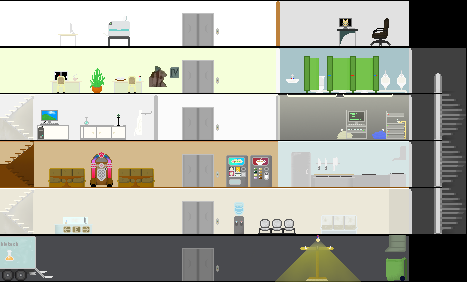
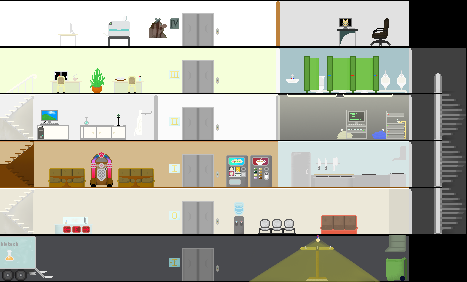
added characters

diff --git a/ParapluieBulgare/Game1.cs b/ParapluieBulgare/Game1.cs
@@ -25,18 +25,19 @@ namespace ParapluieBulgare
         {
             "white",
             "bulleDeTexte",
-            "MC_Walk_SpriteSheet",
-            "costard_fem_idle",
+            "background",
+            "ascenseur",
+
+            "player_walk",
             "costard_idle",
-            "costard_idle_2",
+            "costard_idle2",
+            "costard_fem_idle",
+            "costard_fem_idle2",
             "cuistot_idle",
-            "cuistot_idle_2",
-            "Directeur_idle",
-            "Journaliste_IDLE",
-            "rando_fem_idle",
-            "Background",
-            "vigile_walk_3",
-            "Ascenseur"
+            "cuistot_idle2",
+            "directeur_idle",
+            "journaliste_idle",
+            "vigile_walk",
         };
         Dictionary<string, Texture2D> textureDict;
 
@@ -99,20 +100,22 @@ namespace ParapluieBulgare
             DialogBox.dialogBoxTexture = textureDict["bulleDeTexte"];
             DialogBox.boxRect = new Rectangle(0, 0, WIDTH - (HEIGHT / 3), HEIGHT / 3 + 30); //(int)(0.261 * (WIDTH - (HEIGHT / 3))));
 
-            player = new Player(GetAnimation("MC_Walk_SpriteSheet"), GetAnimation("MC_Walk_SpriteSheet"), facebook["face01"], white);
+            player = new Player(GetAnimation("player_walk"), GetAnimation("player_walk"), facebook["face01"], white);
             floors = new Floor[]
             {
-                new Floor(player, -1, textureDict["Background"], GetFloorNPCs(-1), GetFloorFurnitures(-1)),
-                new Floor(player, 0, textureDict["Background"], GetFloorNPCs(0), GetFloorFurnitures(0)),
-                new Floor(player, 1, textureDict["Background"], GetFloorNPCs(1), GetFloorFurnitures(1)),
-                new Floor(player, 2, textureDict["Background"], GetFloorNPCs(2), GetFloorFurnitures(2)),
-                new Floor(player, 3, textureDict["Background"], GetFloorNPCs(3), GetFloorFurnitures(3)),
-                new Floor(player, 4, textureDict["Background"], GetFloorNPCs(4), GetFloorFurnitures(4))
+                new Floor(player, -1, textureDict["background"], GetFloorNPCs(-1), GetFloorFurnitures(-1)),
+                new Floor(player, 0, textureDict["background"], GetFloorNPCs(0), GetFloorFurnitures(0)),
+                new Floor(player, 1, textureDict["background"], GetFloorNPCs(1), GetFloorFurnitures(1)),
+                new Floor(player, 2, textureDict["background"], GetFloorNPCs(2), GetFloorFurnitures(2)),
+                new Floor(player, 3, textureDict["background"], GetFloorNPCs(3), GetFloorFurnitures(3)),
+                new Floor(player, 4, textureDict["background"], GetFloorNPCs(4), GetFloorFurnitures(4))
             };
 
             guards = new List<Guard>
             {
-                new Guard(GetAnimation("vigile_walk_3"), GetAnimation("vigile_walk_3"), facebook["faceVigile"], 0, 700)
+                new Guard(GetAnimation("vigile_walk"), GetAnimation("vigile_walk"), facebook["faceVigile"], 0, 1700),
+                new Guard(GetAnimation("vigile_walk"), GetAnimation("vigile_walk"), facebook["faceVigile"], 2, 400),
+                new Guard(GetAnimation("vigile_walk"), GetAnimation("vigile_walk"), facebook["faceVigile"], 2, 1700)
             };
             currentFloor = floors[1];
 
@@ -149,26 +152,26 @@ namespace ParapluieBulgare
         {
             switch (spritesheet)
             {
-                case "MC_Walk_SpriteSheet":
-                    return new Animation(textureDict["MC_Walk_SpriteSheet"], 32, 32, 6, 10);
-                case "vigile_walk_3":
-                    return new Animation(textureDict["vigile_walk_3"], 32, 32, 6, 10);
+                case "player_walk":
+                    return new Animation(textureDict["player_walk"], 32, 32, 6, 10);
+                case "vigile_walk":
+                    return new Animation(textureDict["vigile_walk"], 32, 32, 6, 10);
                 case "costard_fem_idle":
                     return new Animation(textureDict["costard_fem_idle"], 32, 32, 2, 60);
+                case "rando_fem_idle":
+                    return new Animation(textureDict["costard_fem_idle2"], 32, 32, 2, 60);
                 case "costard_idle":
                     return new Animation(textureDict["costard_idle"], 32, 32, 2, 60);
-                case "costard_idle_2":
-                    return new Animation(textureDict["costard_idle_2"], 32, 32, 2, 60);
+                case "costard_idle2":
+                    return new Animation(textureDict["costard_idle2"], 32, 32, 2, 60);
                 case "cuistot_idle":
                     return new Animation(textureDict["cuistot_idle"], 32, 32, 2, 60);
-                case "cuistot_idle_2":
-                    return new Animation(textureDict["cuistot_idle_2"], 32, 32, 2, 60);
-                case "Directeur_idle":
-                    return new Animation(textureDict["Directeur_idle"], 32, 32, 7, 60);
-                case "Journaliste_IDLE":
-                    return new Animation(textureDict["Journaliste_IDLE"], 32, 32, 2, 60);
-                case "rando_fem_idle":
-                    return new Animation(textureDict["rando_fem_idle"], 32, 32, 2, 60);
+                case "cuistot_idle2":
+                    return new Animation(textureDict["cuistot_idle2"], 32, 32, 2, 60);
+                case "directeur_idle":
+                    return new Animation(textureDict["directeur_idle"], 32, 32, 7, 60);
+                case "journaliste_idle":
+                    return new Animation(textureDict["journaliste_idle"], 32, 32, 2, 60);
                 default:
                     return null;
             }
@@ -180,17 +183,17 @@ namespace ParapluieBulgare
 
             switch (floor)
             {
-                case 0:
+                case -1:
                     npcs = new List<NPC>
                     {
-                        new NPC(GetAnimation("Journaliste_IDLE"), GetAnimation("Journaliste_IDLE"), facebook["face02"], 80),
-                        new NPC(GetAnimation("Journaliste_IDLE"), GetAnimation("Journaliste_IDLE"), facebook["face02"], 200),
-                        new NPC(GetAnimation("costard_idle"), GetAnimation("costard_idle"), facebook["face02"], 500)
+                        new NPC(GetAnimation("journaliste_idle"), GetAnimation("journaliste_idle"), facebook["face02"], 700),
+                        new NPC(GetAnimation("journaliste_idle"), GetAnimation("journaliste_idle"), facebook["face02"], 930),
                     };
 
                     npcs[0].Target = true;
+                    npcs[0].Flip = true;
 
-                    NPC npc = npcs[2];
+                    NPC npc = npcs[1];
                     DialogBox b1 = new DialogBox("coucou", npc);
                     DialogBox b2 = new DialogBox("wesh frr", player);
                     DialogBox b3 = new DialogBox("vazy kass toa", npc, false, HintsEnum.BadgeLabo);
@@ -200,7 +203,80 @@ namespace ParapluieBulgare
                     DialogTree tree = new DialogTree(new List<DialogBox> { b1, b2, b3 }, new List<HintsEnum> { HintsEnum.BadgeLabo }, new List<DialogBox> { b4 });
                     npc.SetDialogTree(tree);
                     break;
+                case 0:
+                    npcs = new List<NPC>
+                    {
+                        new NPC(GetAnimation("journaliste_idle"), GetAnimation("journaliste_idle"), facebook["face02"], 660),
+                        new NPC(GetAnimation("journaliste_idle"), GetAnimation("journaliste_idle"), facebook["face02"], 1600),
+
+                        new NPC(GetAnimation("costard_fem_idle"), GetAnimation("costard_fem_idle"), facebook["face02"], 2200),
+                        new NPC(GetAnimation("journaliste_idle"), GetAnimation("journaliste_idle"), facebook["face02"], 2700),
+                        new NPC(GetAnimation("journaliste_idle"), GetAnimation("journaliste_idle"), facebook["face02"], 2800)
+                    };
+
+                    npcs[0].Flip = true;
+                    npcs[1].Flip = true;
+                    npcs[3].Flip = true;
+
+                    break;
                 case 1:
+                    npcs = new List<NPC>
+                    {
+                        new NPC(GetAnimation("journaliste_idle"), GetAnimation("journaliste_idle"), facebook["face02"], 460),
+                        new NPC(GetAnimation("journaliste_idle"), GetAnimation("journaliste_idle"), facebook["face02"], 700),
+                        new NPC(GetAnimation("costard_idle"), GetAnimation("costard_idle"), facebook["face02"], 1170),
+                        new NPC(GetAnimation("journaliste_idle"), GetAnimation("journaliste_idle"), facebook["face02"], 1370),
+                        new NPC(GetAnimation("directeur_idle"), GetAnimation("directeur_idle"), facebook["face02"], 1800),
+
+                        new NPC(GetAnimation("cuistot_idle"), GetAnimation("cuistot_idle"), facebook["face02"], 2850),
+                        new NPC(GetAnimation("cuistot_idle"), GetAnimation("cuistot_idle"), facebook["face02"], 3700),
+                        new NPC(GetAnimation("cuistot_idle"), GetAnimation("cuistot_idle"), facebook["face02"], 3850)
+                    };
+
+                    npcs[0].Flip = true;
+                    npcs[2].Flip = true;
+                    npcs[5].Flip = true;
+
+                    break;
+                case 2:
+                    npcs = new List<NPC>
+                    {
+                        new NPC(GetAnimation("journaliste_idle"), GetAnimation("journaliste_idle"), facebook["face02"], 700),
+                        new NPC(GetAnimation("direction_idle"), GetAnimation("direction_idle"), facebook["face02"], 1300),
+                        new NPC(GetAnimation("costard_idle"), GetAnimation("costard_idle"), facebook["face02"], 1400),
+
+                        new NPC(GetAnimation("journaliste_idle"), GetAnimation("journaliste_idle"), facebook["face02"], 3100),
+                        new NPC(GetAnimation("costard_idle"), GetAnimation("costard_idle"), facebook["face02"], 4000)
+                    };
+
+                    npcs[1].Flip = true;
+                    npcs[3].Flip = true;
+
+                    break;
+                case 3:
+                    npcs = new List<NPC>
+                    {
+                        new NPC(GetAnimation("journaliste_idle"), GetAnimation("journaliste_idle"), facebook["face02"], 650),
+                        new NPC(GetAnimation("journaliste_idle"), GetAnimation("journaliste_idle"), facebook["face02"], 800),
+                        new NPC(GetAnimation("journaliste_idle"), GetAnimation("journaliste_idle"), facebook["face02"], 900),
+                        new NPC(GetAnimation("costard_fem_idle"), GetAnimation("costard_fem_idle"), facebook["face02"], 1450),
+                        new NPC(GetAnimation("costard_idle"), GetAnimation("costard_idle"), facebook["face02"], 1700)
+                    };
+
+                    npcs[0].Flip = true;
+                    npcs[3].Flip = true;
+
+                    break;
+                case 4:
+                    npcs = new List<NPC>
+                    {
+                        new NPC(GetAnimation("direction_idle"), GetAnimation("direction_idle"), facebook["face02"], 1000),
+                        new NPC(GetAnimation("direction_idle"), GetAnimation("direction_idle"), facebook["face02"], 1200),
+                        new NPC(GetAnimation("costar_fem_idle2"), GetAnimation("costard_fem_idle2"), facebook["face02"], 2800)
+                    };
+
+                    npcs[0].Flip = true;
+
                     break;
                 default:
                     break;

diff --git a/ParapluieBulgare/Code/Character.cs b/ParapluieBulgare/Code/Character.cs
@@ -47,7 +47,7 @@ namespace ParapluieBulgare.Code
         protected Animation idleAnimation;
         protected Animation walkAnimation;
         protected Animation currentAnimation;
-        public bool Flip { get; set; }
+        public bool Flip { get; set; } = false;
         
         public Character(Animation idle, Animation walk, Texture2D face)
         {
@@ -87,11 +87,11 @@ namespace ParapluieBulgare.Code
         {
             if (leftConversation) leftConversation = false;
 
-            if (x != prevX)
+            if (x != prevX && prevX != 0)
             {
                 currentAnimation = walkAnimation;
-                if (x <= prevX) Flip = false;
-                else Flip = true;
+                if (x < prevX) Flip = false;
+                else if (x > prevX) Flip = true;
             }
             else
             {

diff --git a/ParapluieBulgare/Code/Player.cs b/ParapluieBulgare/Code/Player.cs
@@ -15,7 +15,7 @@ namespace ParapluieBulgare.Code
 
         public Player(Animation idle, Animation walk, Texture2D face, Texture2D texture) : base(idle, walk, face)
         {
-            x = 0;
+            x = 1400;
             y = 2 * Game1.HEIGHT / 3 - width - 20;
 
             journal = new JournalGUI(texture);
